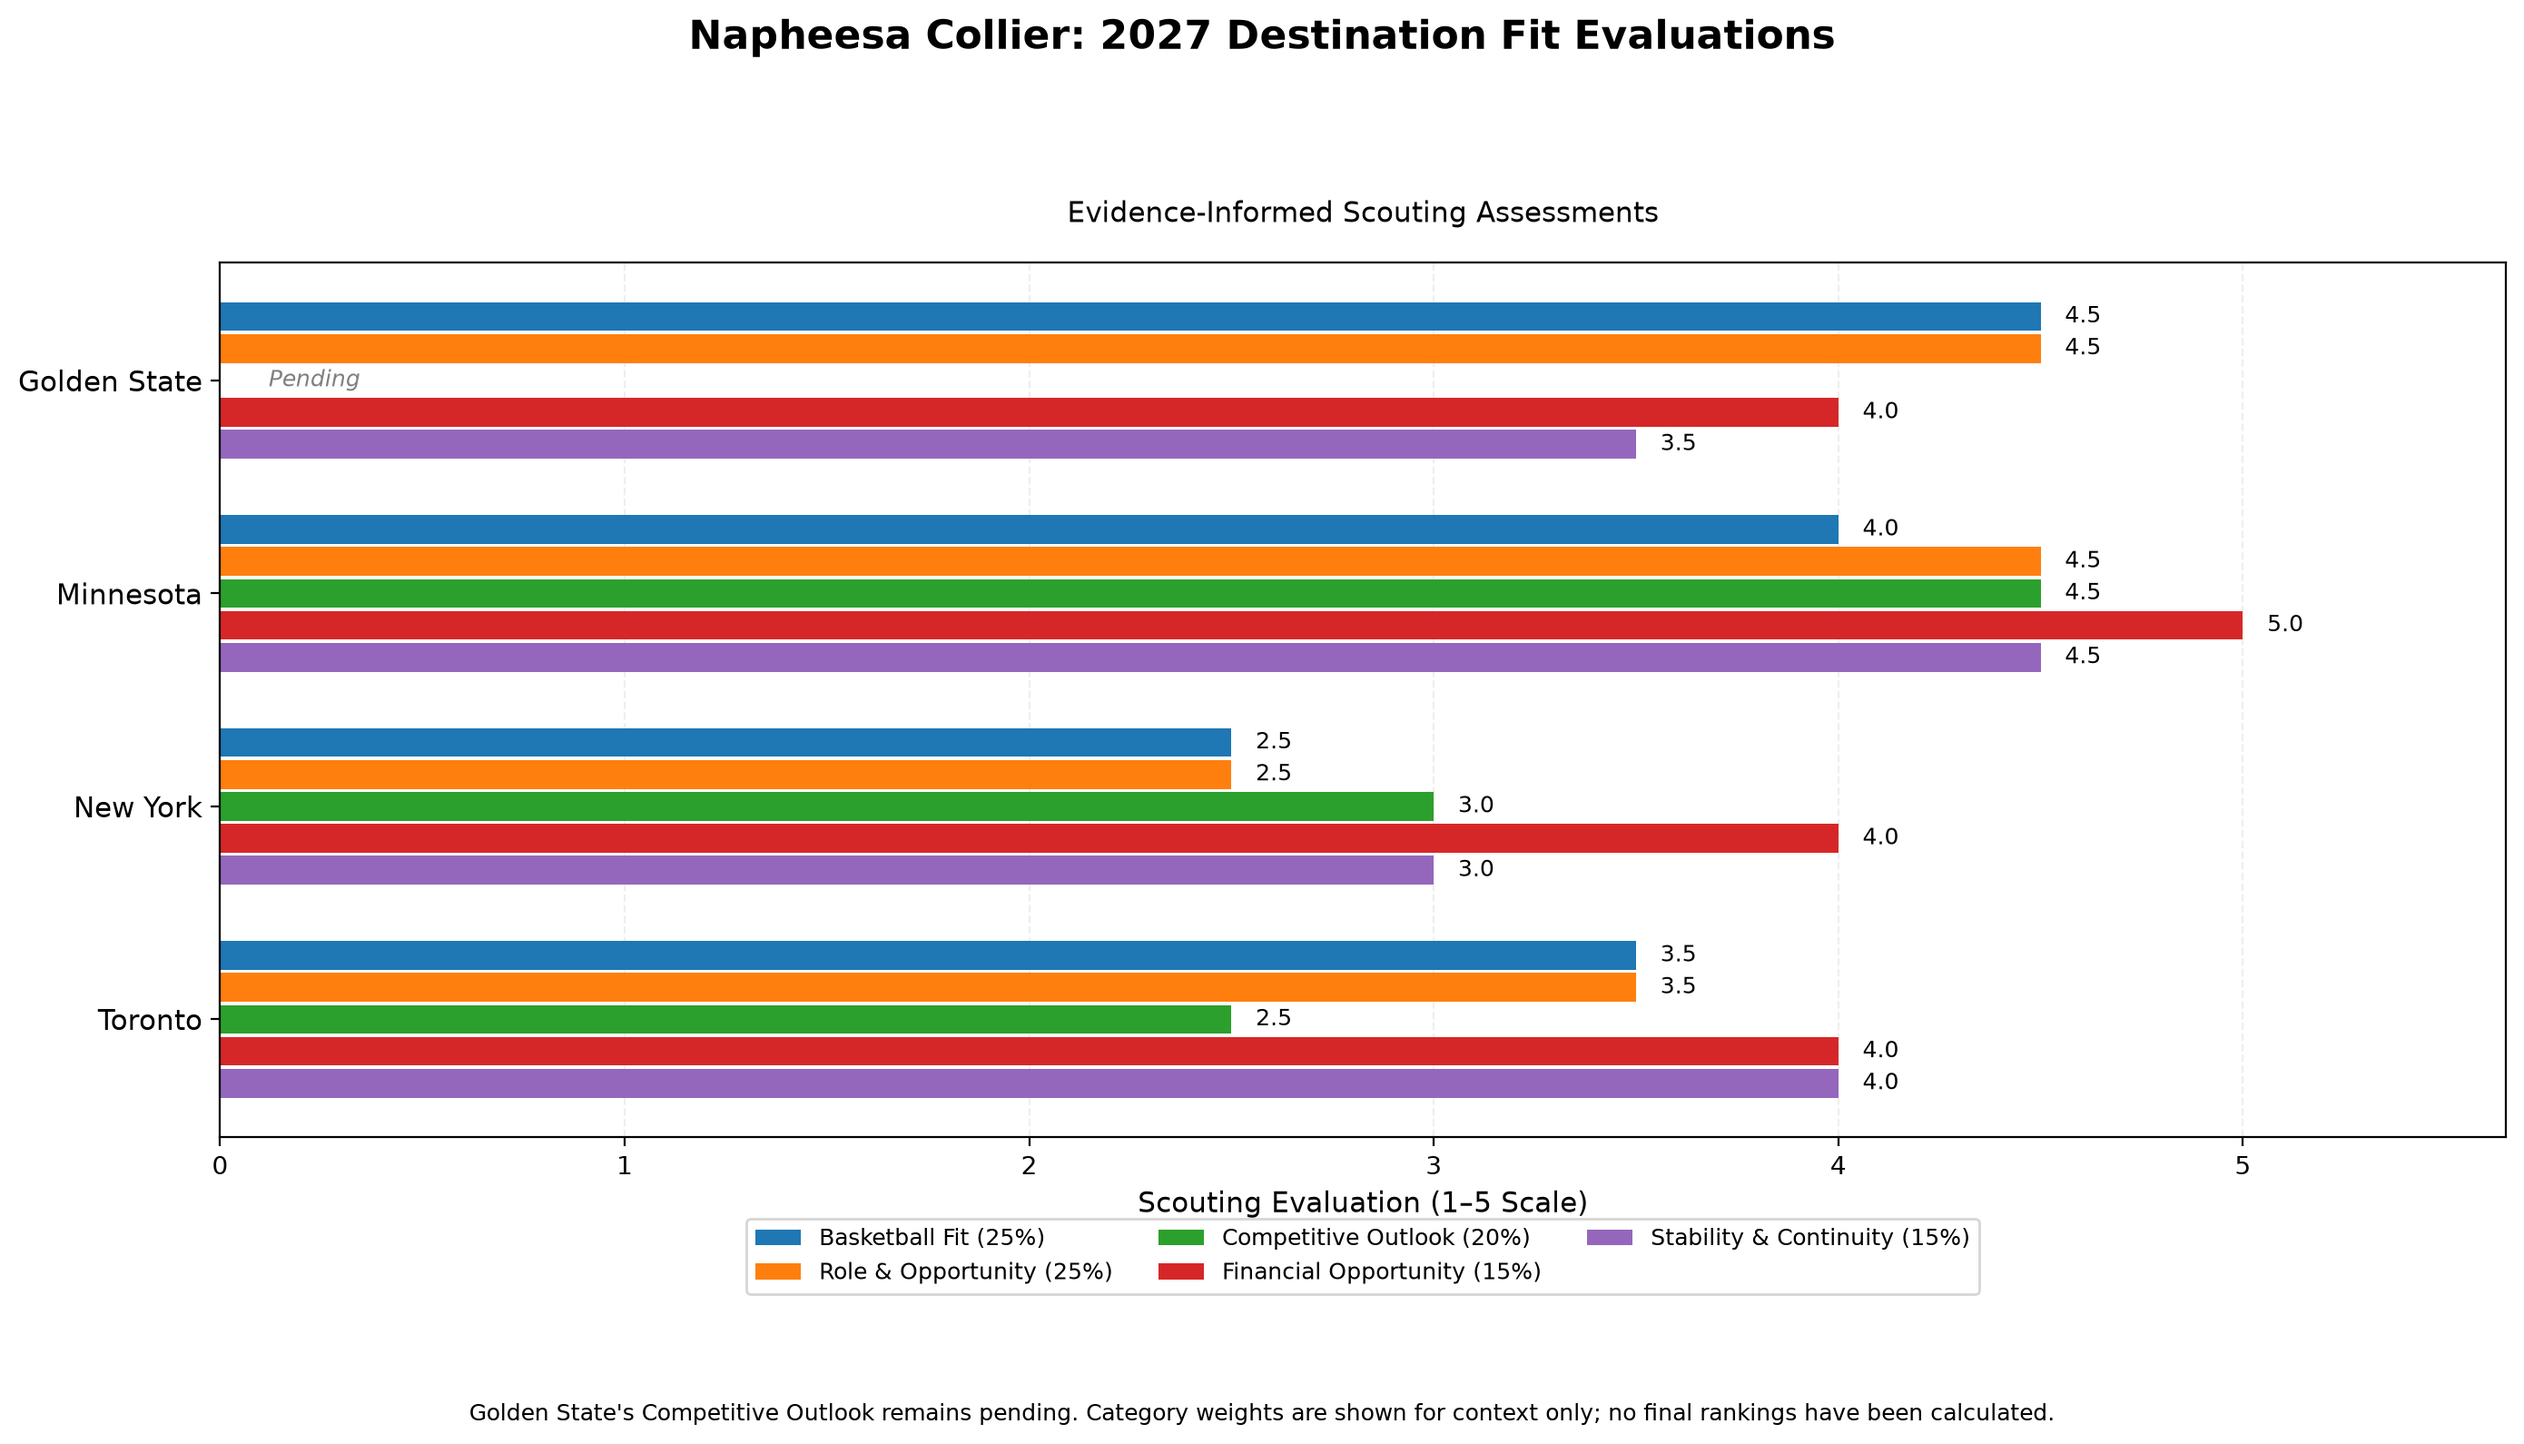
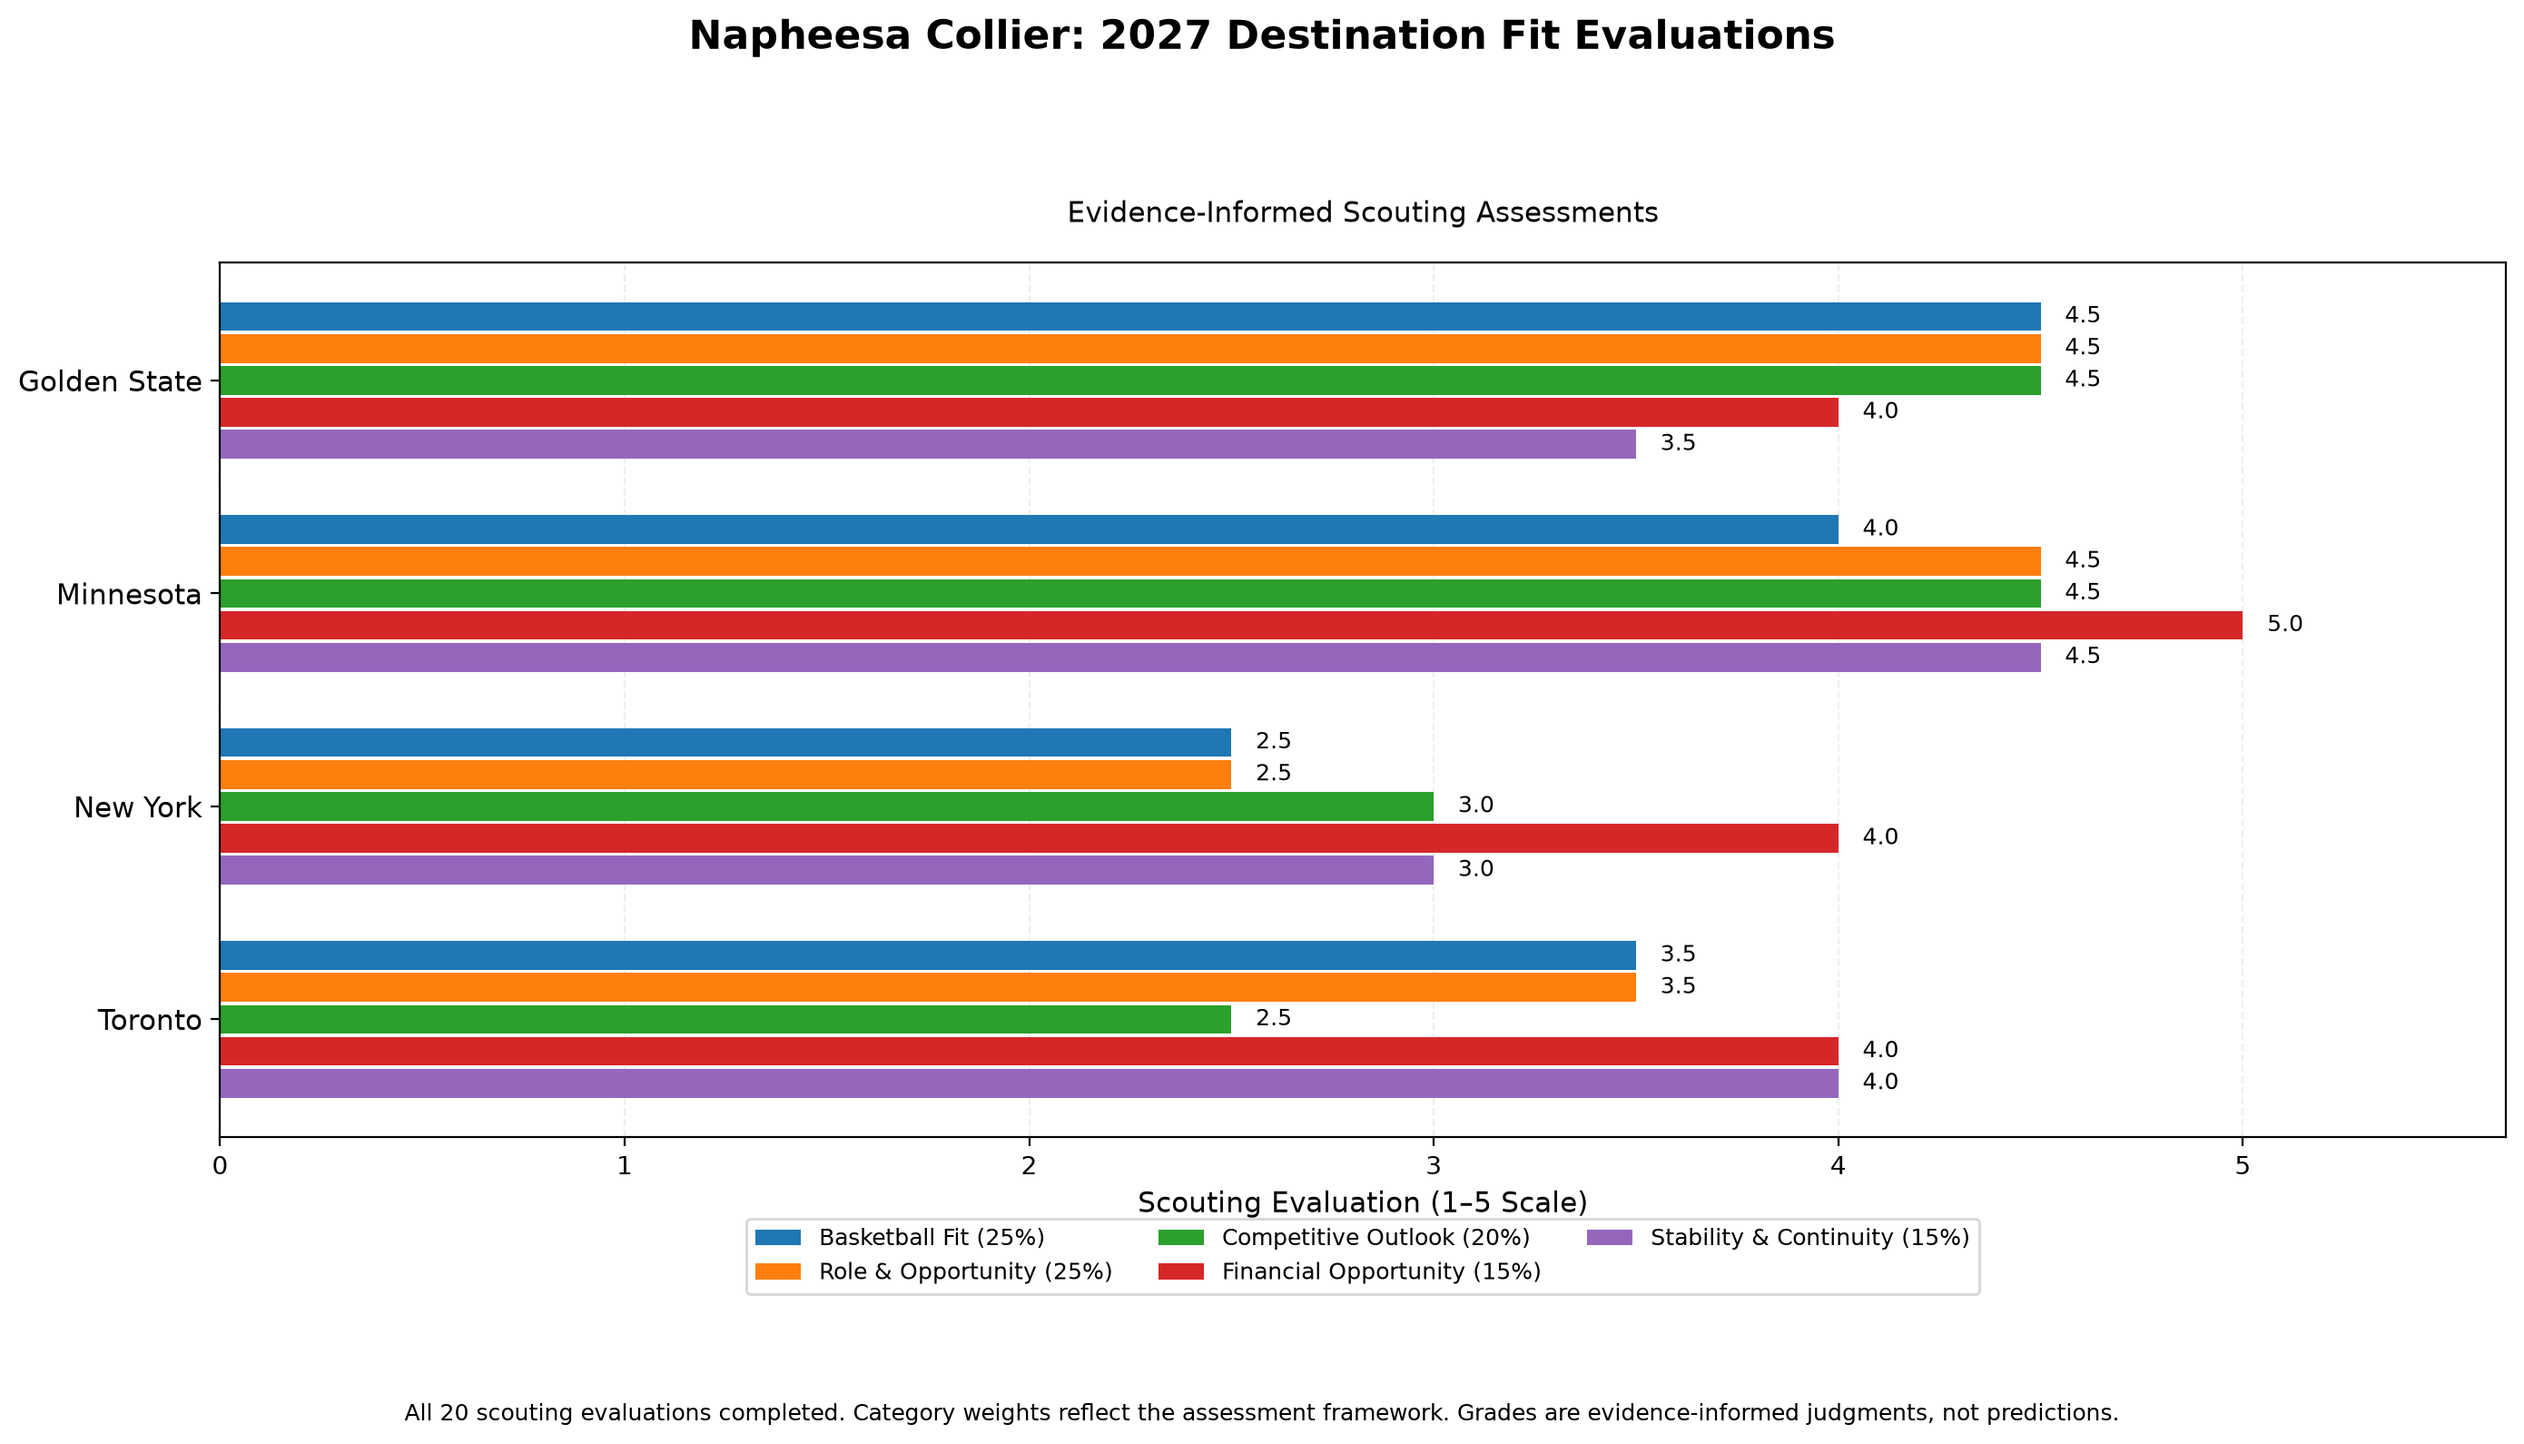
Finalize Collier scouting grades and baseline weighted scores

Changed region(s): [[0.0619, 0.2465, 0.8353, 0.2774], [0.1547, 0.9553, 0.8353, 0.9862]]

diff --git a/calculate_destination_fit_scores.py b/calculate_destination_fit_scores.py
@@ -1,0 +1,143 @@
+from pathlib import Path
+
+import numpy as np
+import pandas as pd
+
+# STEP 1: Project directories
+BASE_DIR = Path(__file__).resolve().parent
+DATA_DIR = BASE_DIR / "data"
+
+# STEP 2: Load completed scouting evaluations
+scouting = pd.read_csv(
+    DATA_DIR / "collier_2027_fit_evaluations.csv"
+)
+
+weights_df = pd.read_csv(
+    DATA_DIR / "collier_2027_scoring_weights.csv"
+)
+
+# STEP 3: Define our evaluation categories
+categories = [
+    "basketball_compatibility",
+    "role_opportunity",
+    "competitive_outlook",
+    "financial_opportunity",
+    "stability_continuity"
+]
+
+# Validate destinations
+if len(scouting) != 4:
+    raise ValueError("Expected four destinations.")
+
+if scouting["destination"].duplicated().any():
+    raise ValueError("Duplicate destinations found.")
+
+# Validate scoring weights
+if weights_df["category"].duplicated().any():
+    raise ValueError("Duplicate scoring categories.")
+
+weights = weights_df.set_index("category")["weight"]
+
+if set(weights.index) != set(categories):
+    raise ValueError("Scoring categories do not match.")
+
+weights = pd.to_numeric(
+    weights.reindex(categories),
+    errors="raise"
+)
+
+if weights.isna().any():
+    raise ValueError("Missing scoring weights.")
+
+if (weights < 0).any():
+    raise ValueError("Weights cannot be negative.")
+
+if not np.isclose(weights.sum(), 1.0):
+    raise ValueError("Scoring weights must total 100%.")
+
+# STEP 4: Validate all 20 grades
+grades = scouting[categories].apply(
+    pd.to_numeric,
+    errors="raise"
+)
+
+if grades.isna().any().any():
+    raise ValueError(
+        "Incomplete evaluations. "
+        "All 20 grades must be present."
+    )
+
+if not grades.ge(1).all().all() or not grades.le(5).all().all():
+    raise ValueError("Grades must fall between 1 and 5.")
+
+# STEP 5: Calculate weighted contributions
+results = scouting[["destination"]].copy()
+
+for category in categories:
+    results[f"{category}_contribution"] = (
+        grades[category] * weights[category]
+    )
+
+contribution_columns = [
+    f"{category}_contribution"
+    for category in categories
+]
+
+# STEP 6: Calculate final weighted scores
+results["weighted_fit_score"] = (
+    results[contribution_columns].sum(axis=1)
+)
+
+# STEP 7: Rank by weighted score
+results = results.sort_values(
+    "weighted_fit_score",
+    ascending=False
+).reset_index(drop=True)
+
+results["baseline_rank"] = (
+    np.arange(1, len(results) + 1)
+)
+
+# STEP 8: Save results
+output_path = (
+    DATA_DIR / "collier_2027_weighted_fit_scores.csv"
+)
+
+results.to_csv(output_path, index=False)
+
+# STEP 9: Display results
+print("\n2027 COLLIER DESTINATION FIT SCORES")
+print("=" * 55)
+
+print(
+    results[
+        [
+            "baseline_rank",
+            "destination",
+            "weighted_fit_score"
+        ]
+    ].to_string(
+        index=False,
+        float_format=lambda x: f"{x:.3f}"
+    )
+)
+
+print("\nCATEGORY WEIGHTS")
+print(weights.to_string())
+
+print("\nLEADER VS. SECOND PLACE")
+gap = (
+    results.loc[0, "weighted_fit_score"]
+    - results.loc[1, "weighted_fit_score"]
+)
+
+print(f"Score difference: {gap:.3f}")
+
+print("\nRESULTS SAVED")
+print(output_path)
+
+print(
+    "\nInterpretation: These scores represent "
+    "the agreed scouting framework, not "
+    "a prediction of Collier's decision."
+)

diff --git a/finalize_competitive_outlook.py b/finalize_competitive_outlook.py
@@ -1,0 +1,65 @@
+
+from pathlib import Path
+import pandas as pd
+
+DATA_DIR = Path(__file__).resolve().parent / "data"
+FILE = DATA_DIR / "collier_2027_fit_evaluations.csv"
+
+scouting = pd.read_csv(FILE)
+
+team = "Golden State Valkyries"
+mask = scouting["destination"].eq(team)
+
+if mask.sum() != 1:
+    raise ValueError(
+        f"Expected one Golden State row, found {mask.sum()}"
+    )
+
+if pd.notna(scouting.loc[mask, "competitive_outlook"]).any():
+    raise ValueError(
+        "Golden State already has a competitive outlook "
+        "grade. Review before overwriting."
+    )
+
+evidence = (
+    "2026 championship-level competitiveness and "
+    "league-leading estimated defensive efficiency "
+    "support a strong 2027 competitive outlook. "
+    "Natalie Nakase's coaching structure is a strength. "
+    "The Finals outcome alone does not determine this grade. "
+    "Expansion-draft changes, roster continuity, and "
+    "future rotation decisions remain uncertainties."
+)
+
+scouting["competitive_outlook_evidence"] = (
+    scouting["competitive_outlook_evidence"].astype("string")
+)
+
+scouting.loc[mask, "competitive_outlook"] = 4.5
+scouting.loc[mask, "competitive_outlook_evidence"] = evidence
+
+categories = [
+    "basketball_compatibility",
+    "role_opportunity",
+    "competitive_outlook",
+    "financial_opportunity",
+    "stability_continuity",
+]
+
+completed = scouting[categories].notna().sum().sum()
+
+if completed != 20:
+    raise ValueError(
+        f"Expected 20 completed evaluations; found {completed}"
+    )
+
+scouting.to_csv(FILE, index=False)
+
+print("\nFINAL SCOUTING GRADES SAVED")
+print(
+    scouting[
+        ["destination"] + categories
+    ].to_string(index=False)
+)
+
+print(f"\nEvaluations completed: {completed} of 20")

diff --git a/visualize_scouting_evaluations.py b/visualize_scouting_evaluations.py
@@ -188,9 +188,9 @@ ax.set_title(
 fig.text(
     0.5,
     0.015,
-    "Golden State's Competitive Outlook remains pending. "
-    "Category weights are shown for context only; "
-    "no final rankings have been calculated.",
+    "All 20 scouting evaluations completed. "
+    "Category weights reflect the assessment framework. "
+    "Grades are evidence-informed judgments, not predictions.",
     ha="center",
     fontsize=9
 )
